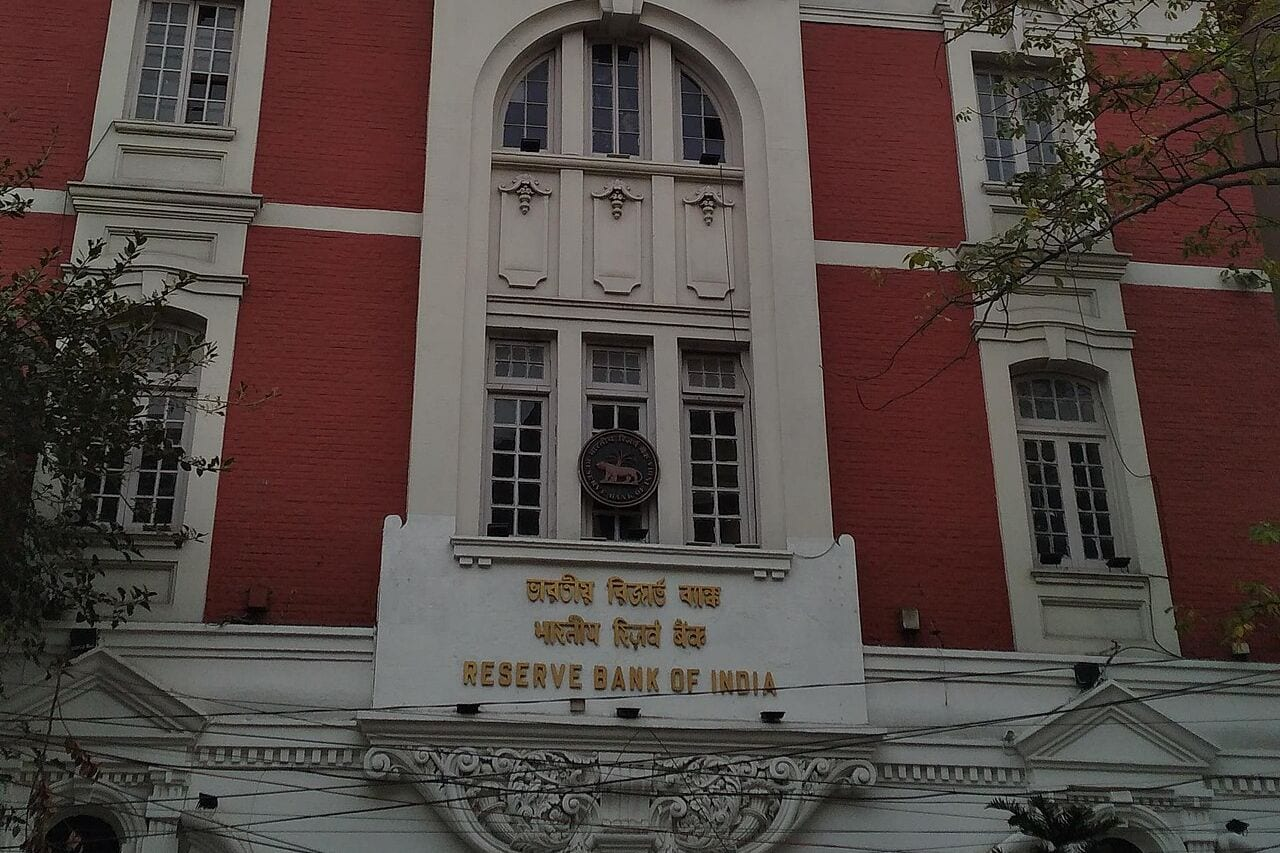
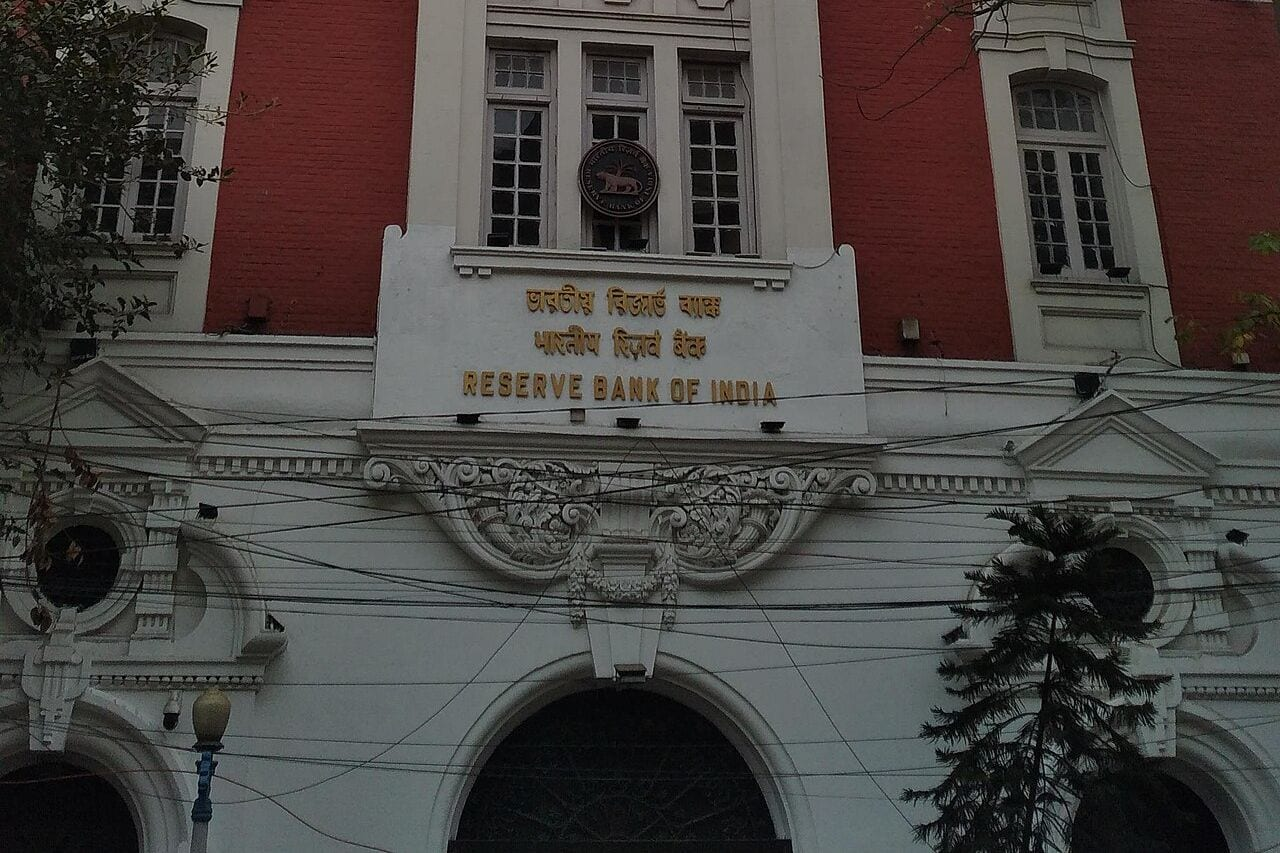
Homepage lead: restore photo with a bottom gradient news strip (set per story in homepage.json)
Claude-Session: https://claude.ai/code/session_01M6BnBbn4XrLvgJasasagNj

diff --git a/src/styles/home.css b/src/styles/home.css
@@ -302,3 +302,11 @@
 .home .nopic .chartbox .fig{margin-top:0;border-top:2px solid var(--ink);padding-top:12px}
 .home .nopic .chartbox .fig .ft{font-size:16px}
 .home .nopic .chartbox .lc{grid-template-rows:300px auto;margin-top:30px}
+/* lead photo: news strip over a bottom gradient */
+.home .pic .lph{position:relative;display:block;border-radius:4px;overflow:hidden}
+.home .pic .lph img,.home .pic .lph .ph{display:block;border-radius:0}
+.home .pic .lph .ov{position:absolute;left:0;right:0;bottom:0;padding:56px 18px 16px;background:linear-gradient(to top,rgba(13,13,13,.92) 0%,rgba(13,13,13,.78) 45%,rgba(13,13,13,0) 100%);color:#fff;display:flex;flex-direction:column;gap:4px}
+.home .pic .lph .ok{font-family:var(--f-head);font-size:12px;font-weight:600;color:#fff;display:flex;align-items:center;gap:6px}
+.home .pic .lph .ok::before{content:"";width:8px;height:8px;border-radius:50%;background:var(--red)}
+.home .pic .lph .ovv{font-family:var(--f-head);font-size:22px;font-weight:700;letter-spacing:-.01em;line-height:1.2}
+.home .pic .lph .ot{font-size:14px;color:#d9d9d9;line-height:1.4}

diff --git a/src/lib/home.ts b/src/lib/home.ts
@@ -199,8 +199,9 @@ export async function homeModel(lang: Lang) {
   const leadE = get(HOME.lead.id);
   const lead = {
     ...card(HOME.lead.id),
-    // The lead photo is opt-in ("photo": true): only when the picture itself tells part of the story.
-    photo: HOME.lead.photo === true,
+    // Lead photo with a news strip over its lower part (lead.overlay). "photo": false hides it.
+    photo: HOME.lead.photo !== false,
+    overlay: HOME.lead.overlay ? { k: HOME.lead.overlay.kicker[lang], v: HOME.lead.overlay.value[lang], t: HOME.lead.overlay.text[lang] } : null,
     chart: chartFromBody(leadE, HOME.lead.chart ?? 1, lang),
     dataBox: HOME.lead.dataBox.map((x: any) => ({ ...x, value: fmtIndicator(lang, x.indicator, x.decimals), label: x.label[lang] })),
     below: HOME.lead.relatedBelow.map(card),
